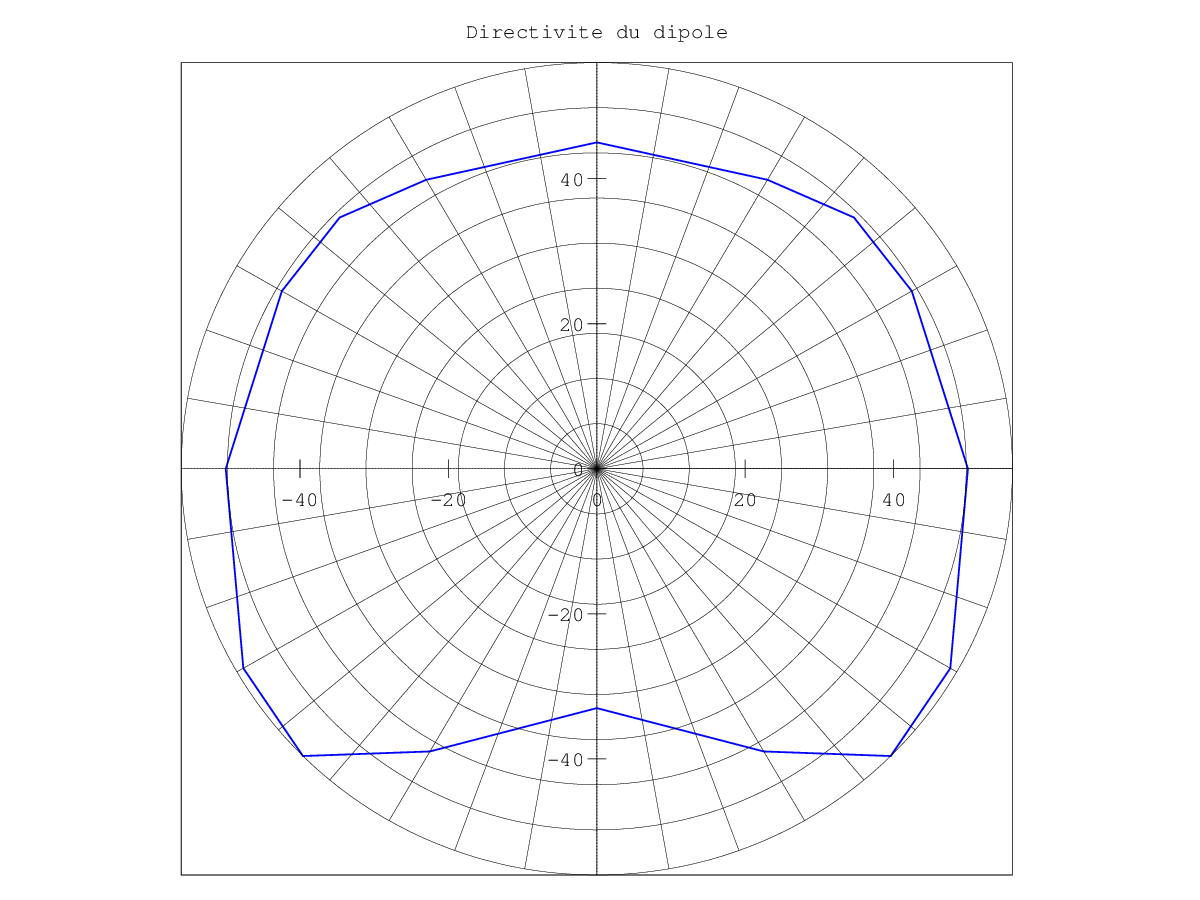
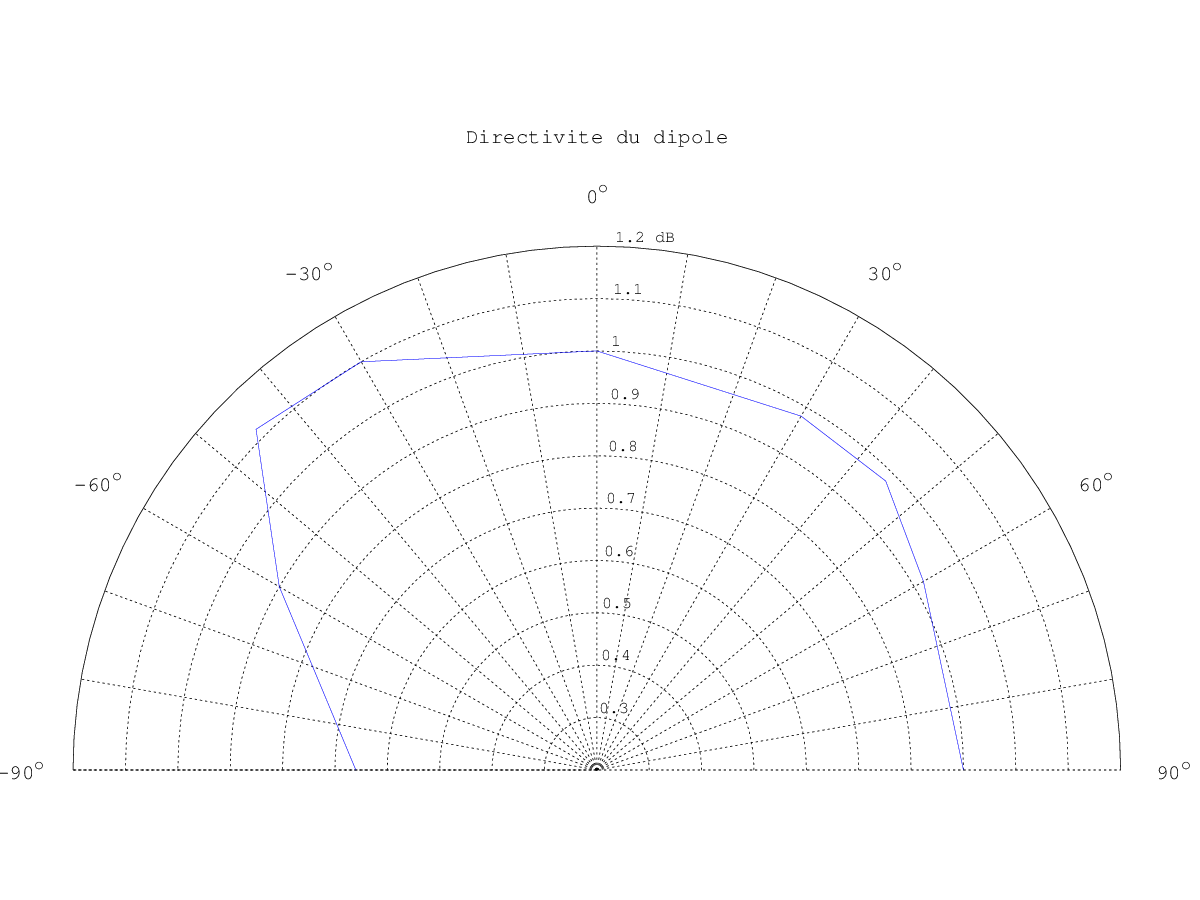
Directivités

diff --git a/acou3d/tp1/direct_mono.m b/acou3d/tp1/direct_mono.m
@@ -27,10 +27,14 @@ close all;
 % get meas data
 run 'mesures/directivite_monopole.data';
 
-meas_data = symetric(meas_data);
+meas_data = norm2one(meas_data);
 
-gh = polar(meas_data(:,1), meas_data(:,2));
-set(gh, 'LineWidth', 3)
-polargrid;
+% gh = polar(angles, meas_data(:,2));
+% set(gh, 'LineWidth', 3)
+% polargrid;
+% ax = axis();
+% ylim([0 max(abs(ax(1:4)))]);
+
+dirplot(meas_data(:,1)*180/pi, meas_data(:,2));
 title("Directivite du monopole");
 print('-dpng', 'direct_mono.png');

diff --git a/acou3d/tp1/direct_quadri.m b/acou3d/tp1/direct_quadri.m
@@ -27,11 +27,9 @@ close all;
 % get meas data
 run 'mesures/directivite_quadripole.data';
 
-meas_data = symetric(meas_data);
+meas_data = norm2one(meas_data);
 
-gh = polar(meas_data(:,1), meas_data(:,2));
-set(gh, 'LineWidth', 3)
-polargrid;
+dirplot(meas_data(:,1)*180/pi, meas_data(:,2));
 title("Directivite du quadripole");
 print('-dpng', 'direct_quadri.png');
 

diff --git a/acou3d/tp1/direct_di.m b/acou3d/tp1/direct_di.m
@@ -27,11 +27,9 @@ close all;
 % get meas data
 run 'mesures/directivite_dipole.data';
 
-meas_data = symetric(meas_data);
+meas_data = norm2one(meas_data);
 
-gh = polar(meas_data(:,1), meas_data(:,2));
-set(gh, 'LineWidth', 3)
-polargrid;
+dirplot(meas_data(:,1)*180/pi, meas_data(:,2));
 title("Directivite du dipole");
 print('-dpng', 'direct_di.png');
 
